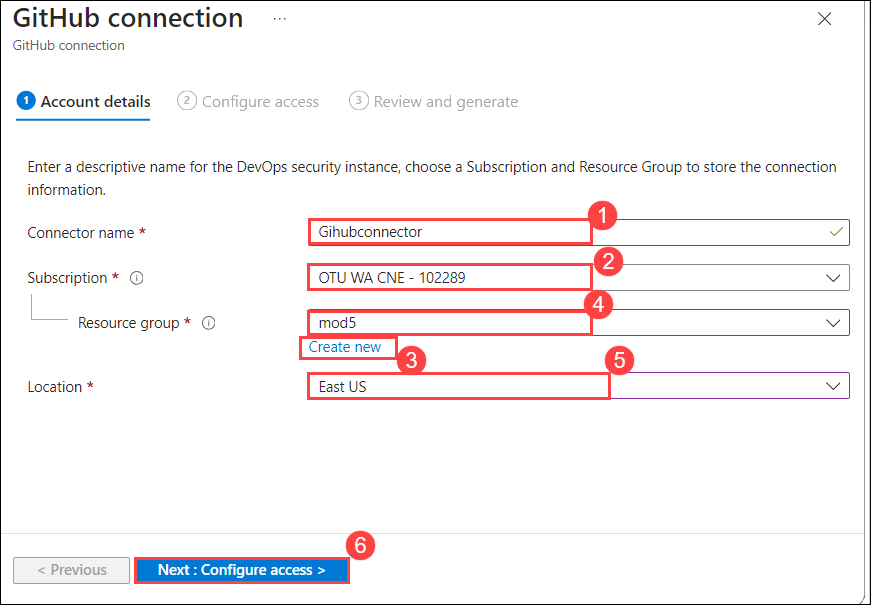
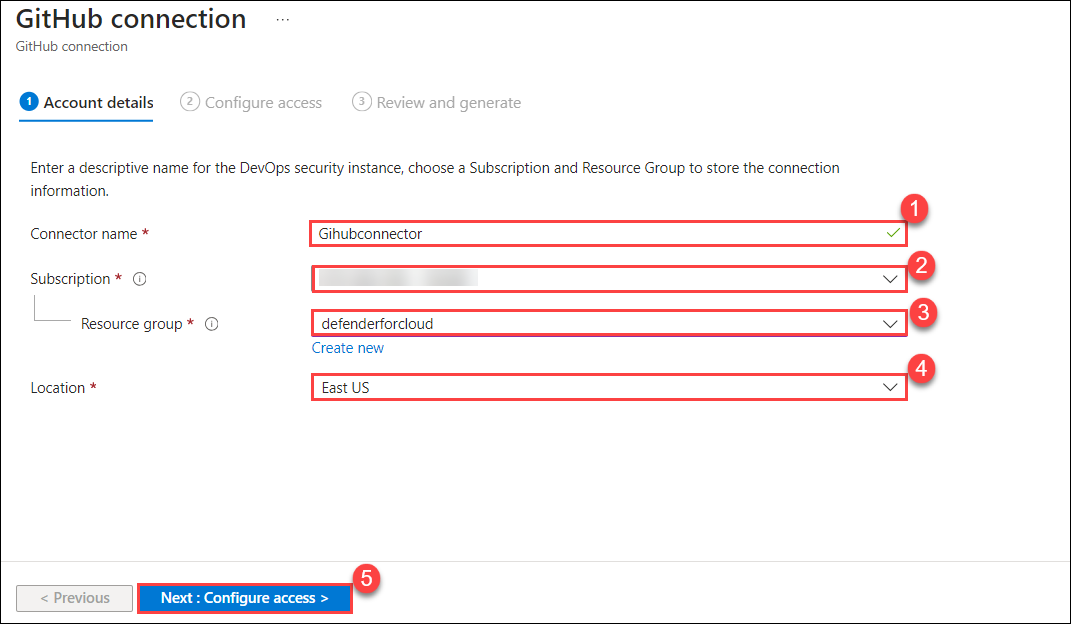
Updated

diff --git a/Instructions/Labs/Module 5 - Defender for DevOps .md b/Instructions/Labs/Module 5 - Defender for DevOps .md
@@ -187,13 +187,13 @@ CD extends CI by automatically deploying all code changes to a production enviro
 
    ![](images/27.png)
 
-1.  On the **All pipelines > New Release Pipeline** pane, click **Save** and, in the **Save** dialog box, click **OK**.
+1. On the **All pipelines > New Release Pipeline** pane, click **Save** and, in the **Save** dialog box, click **OK**.
 
-    ![](images/34.png)
+   ![](images/34.png)
 
-1.  On the **All pipelines > New Release Pipeline** pane, click **Create release** .
+1. On the **All pipelines > New Release Pipeline** pane, click **Create release** .
 
-    ![](images/29.png)
+   ![](images/29.png)
 
 1. Wait until the release pipline successfully completed.
 
@@ -352,7 +352,7 @@ Integrate Microsoft Security DevOps into your Azure DevOps pipeline to scan Infr
    - main
 
    pool:
-    vmImage: ubuntu-latest
+     vmImage: ubuntu-latest
 
    steps:
    - task: MicrosoftSecurityDevOps@1
@@ -451,7 +451,7 @@ To use GHAS, you need to have GitHub Advanced Security enabled for your reposito
 
 - In the `Security` tab, you can also manage security policies by setting up a `security.md` file to inform users about your project's security practices and how they can report vulnerabilities.
 
- 10. Continuous Monitoring and Alerts
+10. Continuous Monitoring and Alerts
 
 - GitHub Advanced Security continuously monitors your repository and generates alerts for any new issues found.
 - Make it a habit to regularly review the `Security` tab and address any new alerts promptly.
@@ -511,7 +511,7 @@ To secure your pipeline with GitHub Advanced Security (GHAS) and Microsoft Defen
    -----------|---------
    | Connector name | Githubconnector |
    | Subscription | Choose the default subscription |
-   | Resource group | (Create new) Mod5 |
+   | Resource group | defenderforcloud |
    | Location | Select any supporting region |
 
 1. Select **Next: Configure access**.
@@ -520,7 +520,7 @@ To secure your pipeline with GitHub Advanced Security (GHAS) and Microsoft Defen
 
 1. Select **Authorize**. enter github username and password.
 
-    ![alert_detected](images/96.png)
+   ![alert_detected](images/96.png)
 
 1. In the popup dialog, read the list of permission requests, and then select **Accept**.
 
@@ -602,9 +602,13 @@ To secure your pipeline with GitHub Advanced Security (GHAS) and Microsoft Defen
 
 1. Click the **Enable** button in the popup to confirm and activate both the dependency graph and Dependabot alerts.
 
-    ![alert_detected](images/91.png)
+   ![alert_detected](images/91.png)
 
-1. **Code Scanning** uses CodeQL to find problems in your code, and **Secret Scanning** and **Dependency Review** are set up through GitHub's settings.
+1. Return to the Defender for Cloud tab, go to **DevOps Security**, and search for **ghas-bootcamp**. You'll notice that advanced security for ghas-bootcamp is currently **On**.
+
+   ![alert_detected](images/114.png)
+
+   >**Note**: You may need to wait 15-20 minutes for advanced security to be activated.
 
 1. Integrating GitHub Advanced Security (GHAS) with your pipeline, as outlined, results in the following benefits:
 
@@ -642,8 +646,8 @@ Overall, this setup strengthens your security posture by integrating automated s
    -----------|---------
    | Connector name | AzureDevopsconnector |
    | Subscription | Choose the default subscription |
-   | Resource group | Lab-VM |
-   | Location | Select any supporting region |
+   | Resource group | defenderforcloud |
+   | Location | east us|
 
    ![alert_detected](images/advlab52.png)
 
